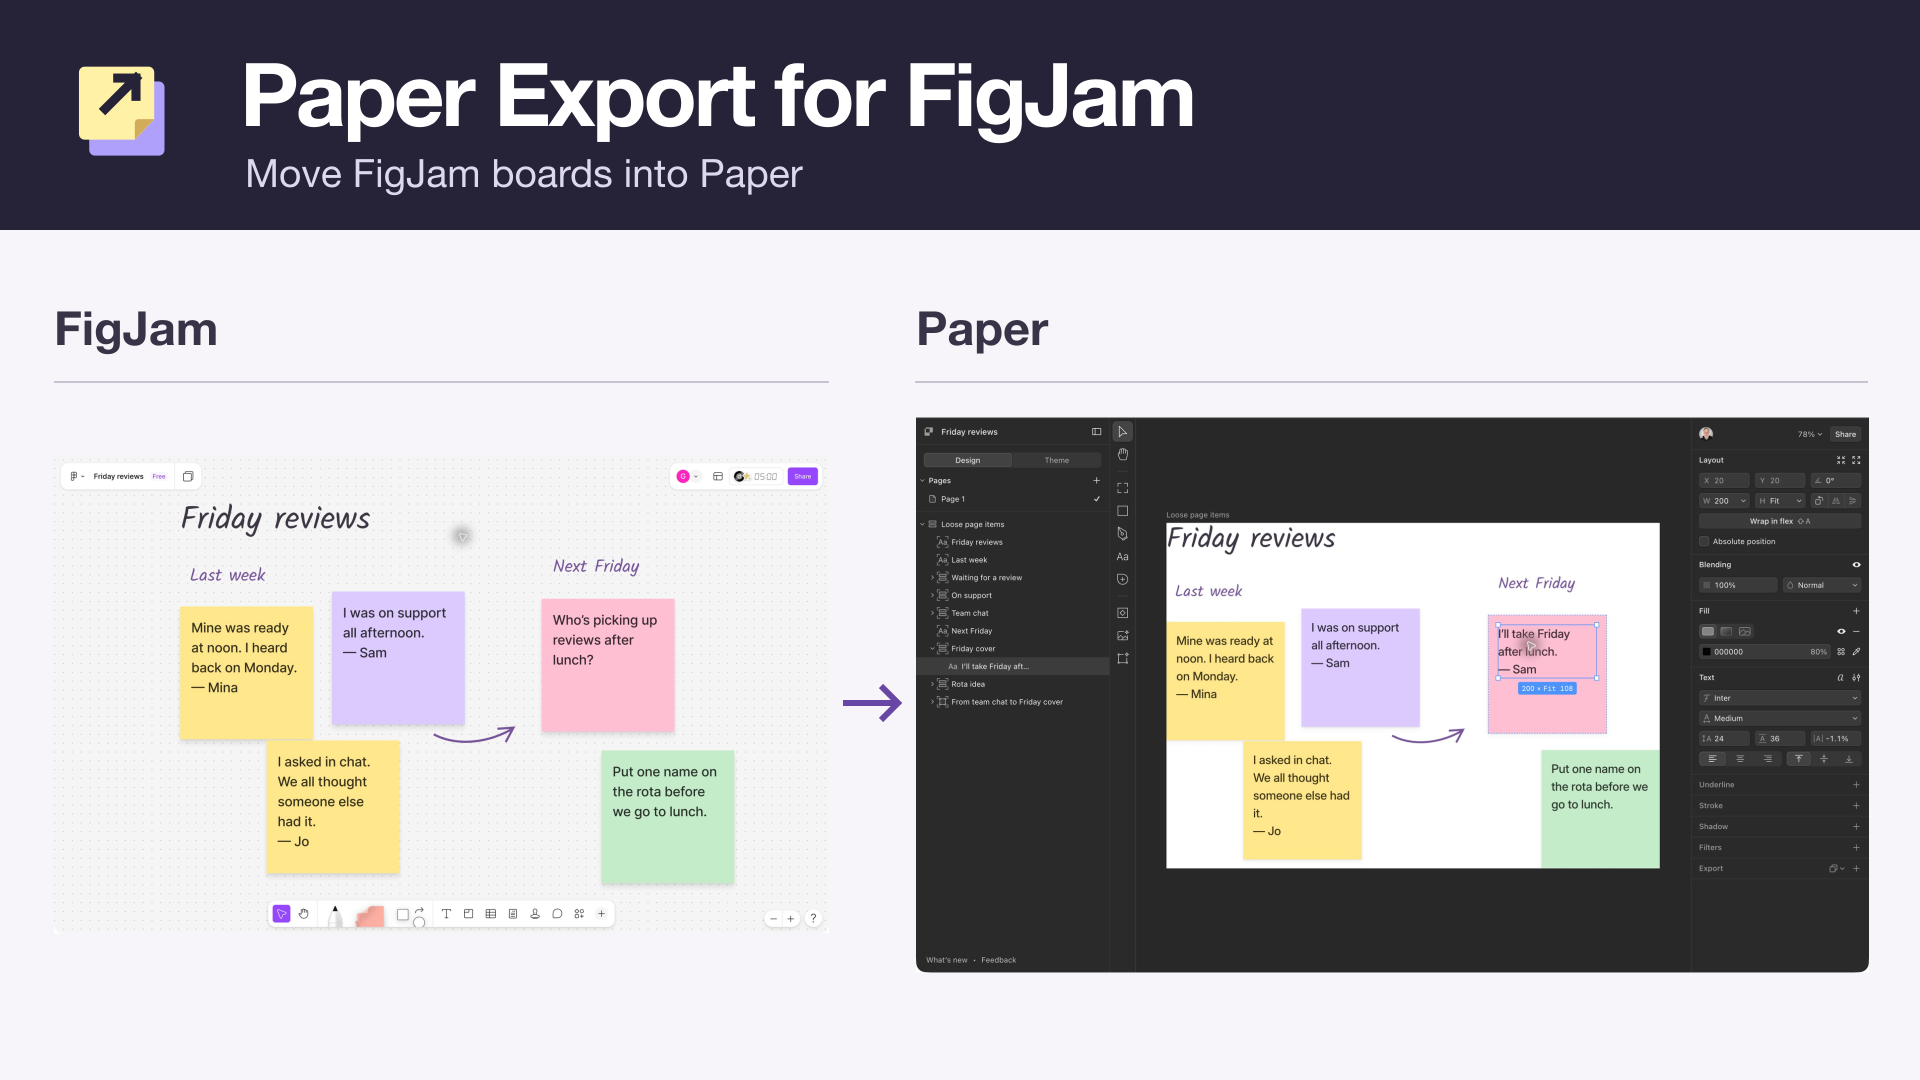
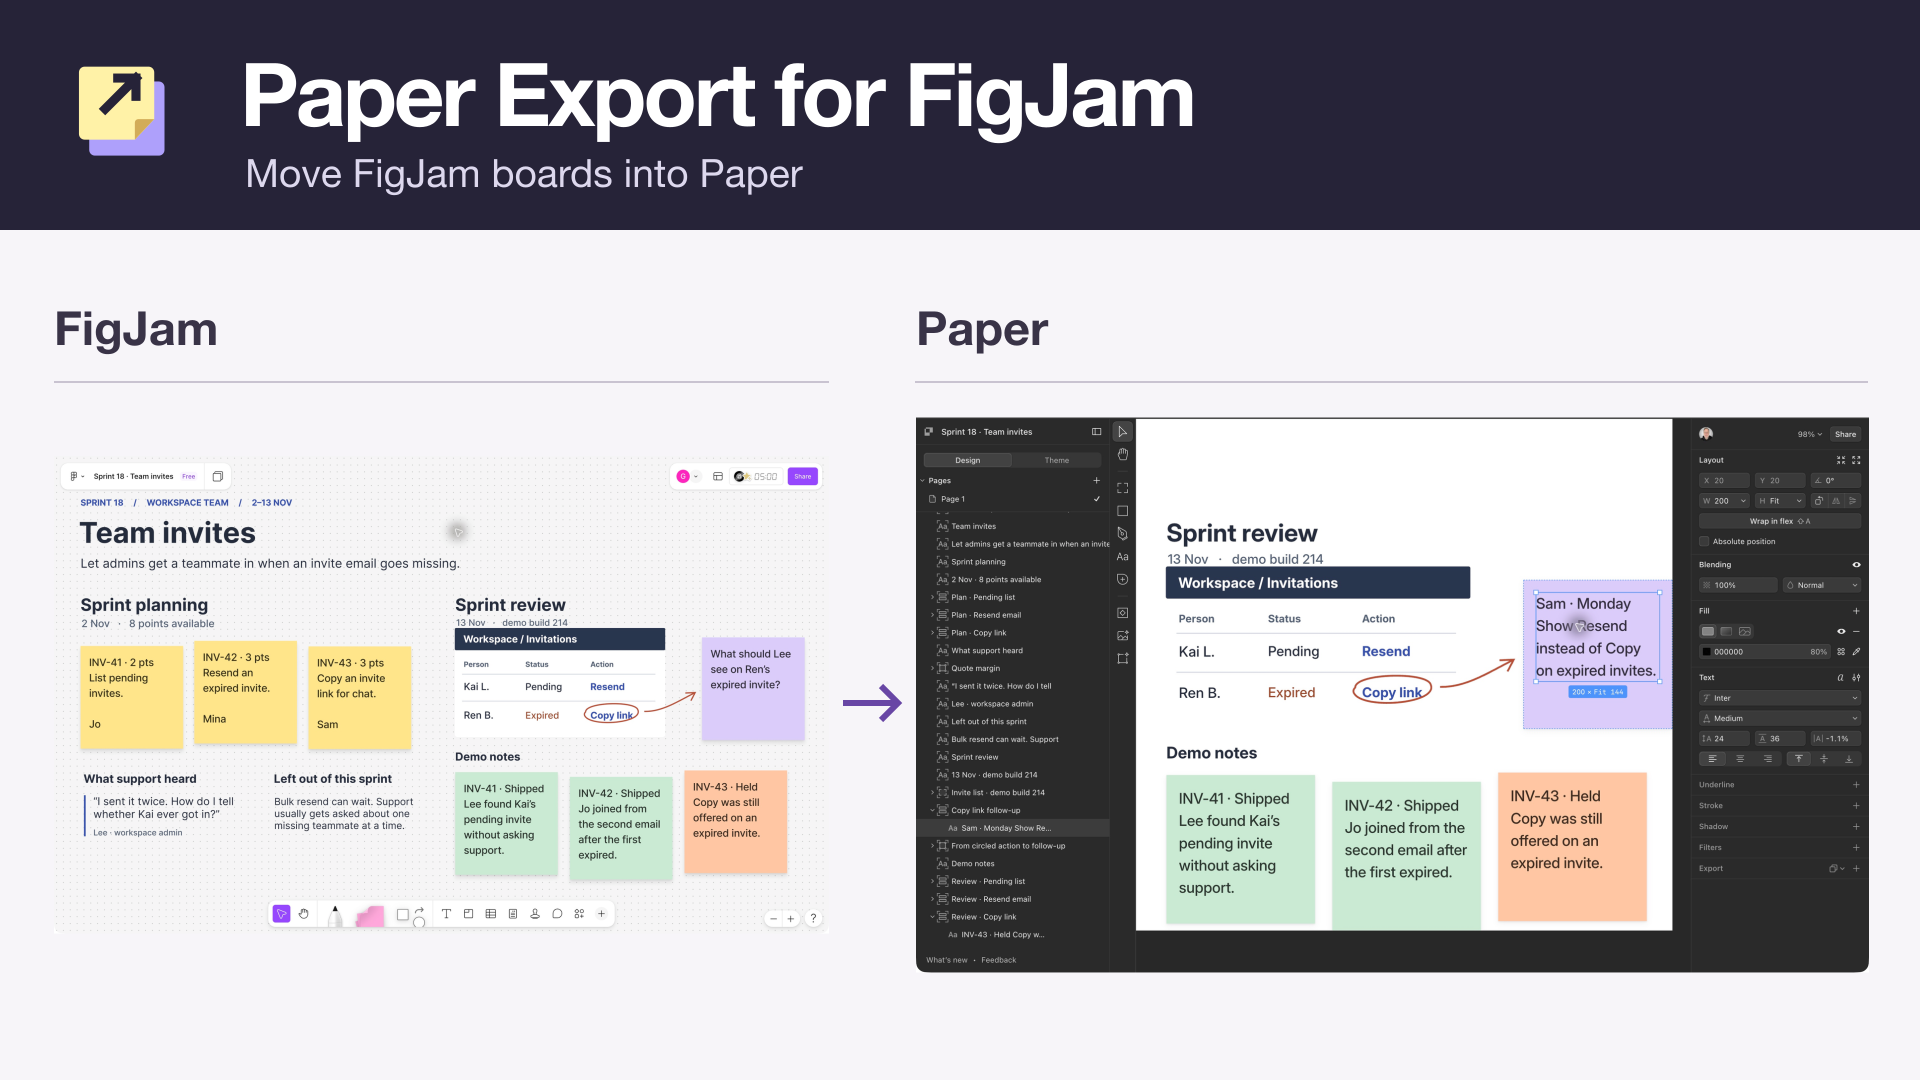
docs: show the sprint review in FigJam and Paper

Changed region(s): [[0.4688, 0.3667, 0.875, 0.8861], [0.0312, 0.4278, 0.4375, 0.8556], [0.5, 0.3972, 0.5312, 0.4278]]

diff --git a/README.md b/README.md
@@ -2,9 +2,9 @@
 
 Take a FigJam workshop into Paper. The notes stay where your team put them, and you can still move them around and edit what they say.
 
-In the sample, **Friday reviews**, three teammates jot down what happened last week. The pink sticky asks the question they want to settle before next Friday.
+The sample follows a two-week sprint called **Team invites**. A workspace admin has sent an email twice and still can’t tell whether Kai joined. The team has eight points to spend. They pick three tickets and leave bulk resend for later.
 
-![Friday reviews open in FigJam. Three stickies sit under “Last week”. An arrow points to a pink question and a green suggestion under “Next Friday”.](docs/images/demo-figjam.png)
+![FigJam board with three estimated tickets under Sprint planning. Under Sprint review, the team has circled “Copy link” on an expired invitation and recorded which tickets shipped.](docs/images/demo-figjam.png)
 
 **Try the sample first.** The project includes the workshop export. From the project folder, run `python3 tools/split_export.py demo/workshop.json sample-out/`, then use the prompt in step 3 with `sample-out/` as your folder. [Sample export](demo/workshop.json)
 
@@ -27,15 +27,17 @@ You’ll need the plugin in Figma, Python 3.10 or later, and an agent connected 
 
 ## Inside the sample workshop
 
-In FigJam the pink sticky asks, “Who’s picking up reviews after lunch?” Here’s the same board in Paper, after Sam answered, “I’ll take Friday after lunch.” You can see the selected text under **Friday cover** in the layer list.
+At the review, Lee can find Kai’s pending invite and Jo can join from a second email. The team holds the third ticket. In the invite-list sketch, **Copy link** still appears beside Ren’s expired invite.
 
-![Paper Desktop showing the same five stickies on one artboard. Sam’s reply is selected on the pink sticky, with its layer on the left and text settings on the right.](docs/images/demo-paper.png)
+The lilac sticky in FigJam asks what Lee should see there. Here’s the review area in Paper after Sam edited it to say, “Show Resend instead of Copy on expired invites.”
+
+![Paper Desktop zoomed in on the review. The invite list and three outcomes are visible, with Sam’s follow-up selected in the layer list and its Inter text settings on the right.](docs/images/demo-paper.png)
 
 To recreate the editable source board, import `demo/build-board/manifest.json` as a development plugin, run **Paper Export demo board** on an empty FigJam page, then export it with the main plugin.
 
 ## What comes across
 
-Each FigJam section becomes a Paper artboard. Loose items share an artboard called **Loose page items**, which is where you’ll find all five stickies in this sample. Groups and frames keep their layout, and image rectangles become image layers.
+Each FigJam section becomes a Paper artboard. Loose items share an artboard called **Loose page items**. In the sample, you can move a sticky or expand the invite-list group to edit a name, status or action. Groups and frames keep their layout, and image rectangles become image layers.
 
 A few details change. Connectors become fixed graphics, decision diamonds become rectangles, and sticky author labels are omitted. Font availability can affect line breaks. To compare a particular board, use **Export reference PNGs** in the plugin. [Import details, limits and troubleshooting](docs/import.md).
 

diff --git a/docs/import.md b/docs/import.md
@@ -41,4 +41,4 @@ uv run --locked pytest
 uv run --locked ruff check .
 ```
 
-The JavaScript tests exercise the exporter, UI and demo builder through Figma and browser boundary fixtures. Python tests cover the splitter using files, including malformed exports, images and concurrent writes. For a live smoke test, build the sample on an empty FigJam page and import its export into Paper. Look for five stickies, three labels and an arrow on one artboard. Edit the pink sticky and compare it with the original in FigJam. [Workshop walkthrough](../README.md#inside-the-sample-workshop).
+The JavaScript tests exercise the exporter, UI and demo builder through Figma and browser boundary fixtures. Python tests cover the splitter using files, including malformed exports, images and concurrent writes. For a live smoke test, build the sprint sample on an empty FigJam page and import it into Paper. Check that all three planned tickets have matching review notes and that the invite-list sketch expands into editable layers. Edit the lilac follow-up and compare it with the original in FigJam. [Workshop walkthrough](../README.md#inside-the-sample-workshop).
